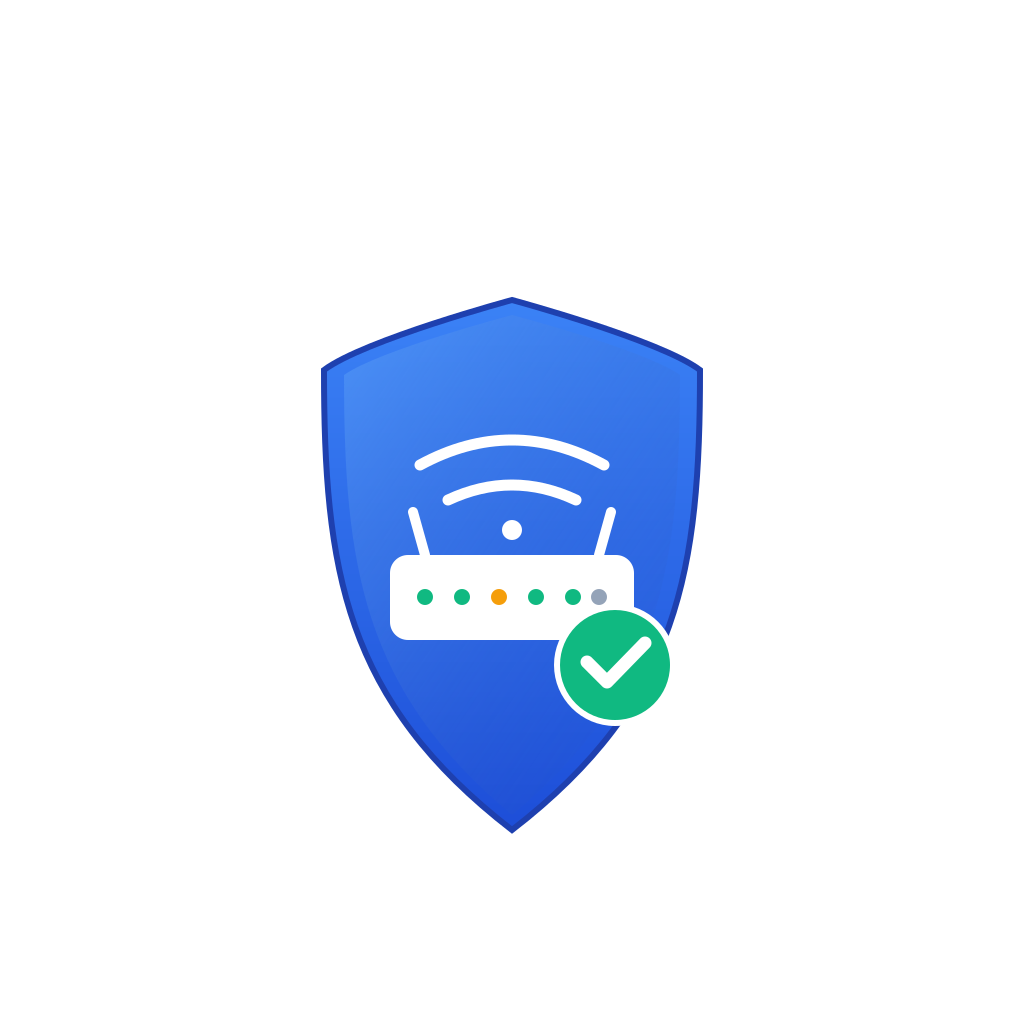
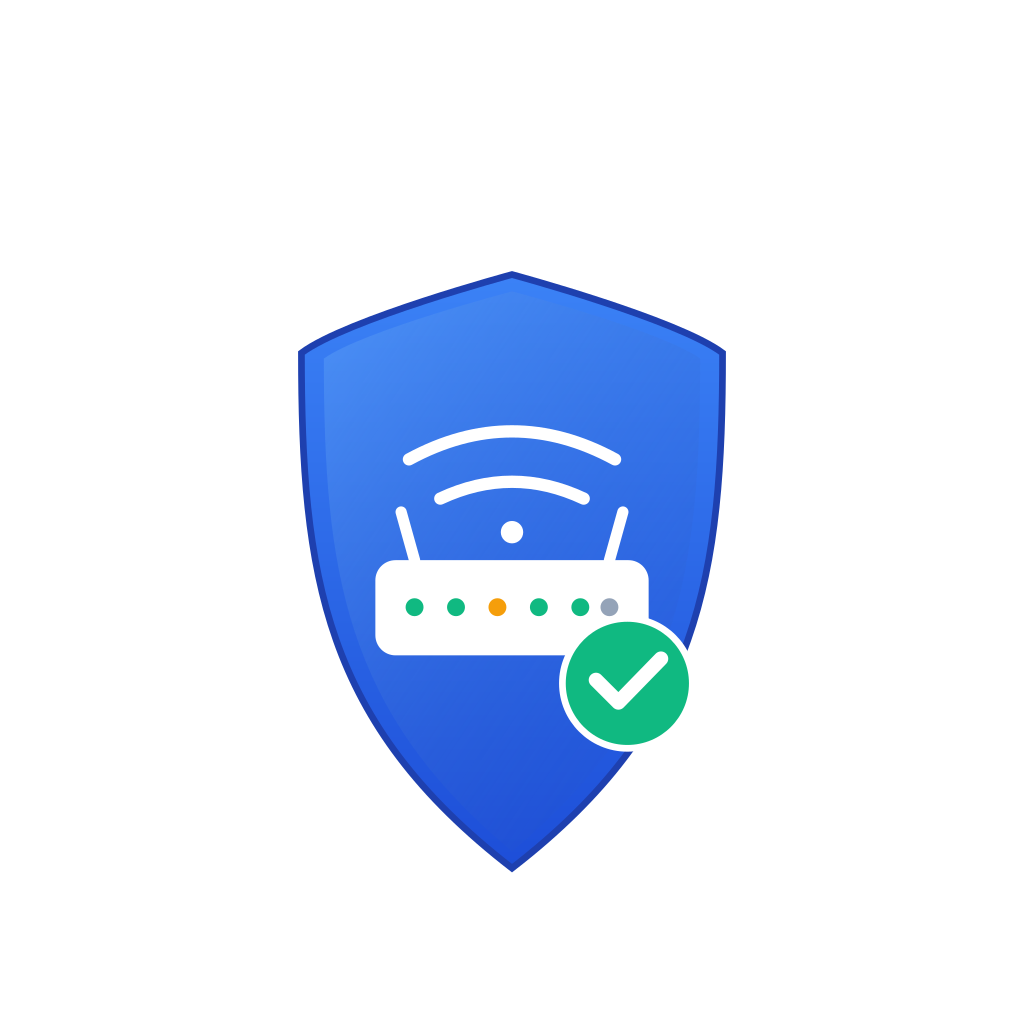
feat: enlarge shield + rebrand to TND Manager + move diag button + splash 3.5s

Changed region(s): [[0.2812, 0.25, 0.7188, 0.8438]]

diff --git a/www/index.html b/www/index.html
@@ -4,7 +4,7 @@
 <meta charset="UTF-8">
 <meta name="viewport" content="width=device-width, initial-scale=1.0, viewport-fit=cover">
 <meta name="theme-color" content="#2563eb">
-<title>مدير الراوتر</title>
+<title>TND Manager</title>
 <script src="/lib/tailwind.cdn.js"></script>
 <script>
 tailwind.config = {
@@ -50,7 +50,7 @@ tailwind.config = {
       <div class="w-8 h-8 rounded-lg bg-primary flex items-center justify-center text-white shrink-0">
         <svg viewBox="0 0 24 24" fill="none" stroke="currentColor" stroke-width="2" class="w-4 h-4"><path d="M5 12.55a11 11 0 0114.08 0"/><path d="M1.42 9a16 16 0 0121.16 0"/><path d="M8.53 16.11a6 6 0 016.95 0"/><line x1="12" y1="20" x2="12.01" y2="20"/></svg>
       </div>
-      <h1 class="font-bold text-base truncate">مدير الراوتر</h1>
+      <h1 class="font-bold text-base truncate">TND Manager</h1>
     </div>
     <button @click="checkHealth()" class="flex items-center gap-1.5 text-xs px-2.5 py-1.5 rounded-full border transition" :class="online ? 'border-green-200 dark:border-green-800 bg-green-50 dark:bg-green-950/40 text-green-700 dark:text-green-400' : 'border-red-200 dark:border-red-800 bg-red-50 dark:bg-red-950/40 text-red-700 dark:text-red-400'">
       <span class="w-1.5 h-1.5 rounded-full" :class="online ? 'bg-green-500 animate-pulse-slow' : 'bg-red-500'"></span>

diff --git a/www/lib/diagnostics.js b/www/lib/diagnostics.js
@@ -46,7 +46,7 @@
 
     const btn = document.createElement('div');
     btn.id = 'diag-btn';
-    btn.style.cssText = 'position:fixed;bottom:80px;left:12px;width:44px;height:44px;border-radius:50%;background:#1e293b;border:1px solid #334155;color:#e2e8f0;z-index:99998;display:flex;align-items:center;justify-content:center;font-size:18px;cursor:pointer;box-shadow:0 4px 12px rgba(0,0,0,0.5);';
+    btn.style.cssText = 'position:fixed;top:80px;left:12px;width:44px;height:44px;border-radius:50%;background:#1e293b;border:1px solid #334155;color:#e2e8f0;z-index:99998;display:flex;align-items:center;justify-content:center;font-size:18px;cursor:pointer;box-shadow:0 4px 12px rgba(0,0,0,0.5);';
     btn.innerHTML = '🔍';
     btn.onclick = togglePanel;
     document.body.appendChild(btn);
